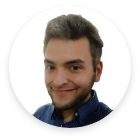
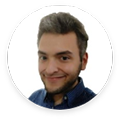
Inclusión de estructura básica de sitio con Flexbox para Web y Móvil.
• Actualizadas imágenes del sitio para la nueva estructura.
• Cambios en el HTML para la nueva estructura.

diff --git a/src/personal-website/personal-website.html b/src/personal-website/personal-website.html
@@ -14,66 +14,70 @@
         <span class="profession">Consultor técnico y programador</span>
     </header>
     <section class="menu">
-        text
+       
     </section>
-    <section class="about">
-        <h1>Bienvenido a mi sitio web</h1>
-        <div>
-            <img src="../../public/images/0.png" alt="professional-photo">
-            <div class="personal-profile">
-                <p class="title">Fernando Sánchez</p>
-                <p class="description">
-                    Mi nombre es Fernando, soy un profesional de tecnología con mas de
-                    6 años ayudando a crear e implementar productos de software como
-                    programador, consultor y asesor técnico.
-                </p>
-            </div>
-        </div>
-        <div>
-            <h2>Trabajo para</h2>
-            <div class="work-area business-work-area">
-                <img src="../../public/images/baseline_business_white_48dp.png" alt="business-icon">
-                <div class="work-description">
-                    <p class="title">Empresas</p>
+    <div class="page-content">
+        <section class="about">
+            <h1>Bienvenido a mi sitio web</h1>
+            <div class="personal-profile-container">
+                <img src="../../public/images/0.png" alt="professional-photo">
+                <div class="personal-profile">
+                    <span class="title">Fernando Sánchez</span>
                     <p class="description">
-                        lore impso dolorem ita mina oule ifsa lore impso dolorem
-                        ita mina oule ifsa
+                        Profesional de tecnología con mas de
+                        6 años ayudando a crear e implementar productos de software como
+                        programador, consultor y asesor de tecnología.
                     </p>
                 </div>
             </div>
-            <div class="work-area entrepreneur-work-area">
-                <img src="../../public/images/hombre-de-traje-y-corbata-white.png" alt="enterpreneur-icon">
-                <div class="work-description">
-                    <p class="title">Emprendedores</p>
-                    <p class="description">
-                        lore impso dolorem ita mina oule ifsa lore impso dolorem
-                        ita mina oule ifsa
-                    </p>
+            <div>
+                <h2>Creo e implemento software para:</h2>
+                <div class="work-area business-work-area">
+                    <img src="../../public/images/baseline_business_white_48dp.png" alt="business-icon">
+                    <div class="work-description">
+                        <p class="title">Empresas</p>
+                        <p class="description">
+                            Impulsar el negocio de forma sostenida en el tiempo,
+                            con software enfocado en generar beneficios mantenibles
+                        </p>
+                    </div>
+                </div>
+                <div class="work-area entrepreneur-work-area">
+                    <img src="../../public/images/hombre-de-traje-y-corbata-white.png" alt="enterpreneur-icon">
+                    <div class="work-description">
+                        <p class="title">Emprendedores</p>
+                        <p class="description">
+                            Hacer realidad nuevas ideas de negocio,
+                            utilizando como vehiculo tecnologías y software costos-efectivos
+                        </p>
+                    </div>
+                </div>
+                <div class="work-area people-work-area">
+                    <img src="../../public/images/person-image-white.png" alt="person-icon">
+                    <div class="work-description">
+                        <p class="title">Personas</p>
+                        <p class="description">
+                            Lograr una vida más satisfactoria y plena con asistencia 
+                            de software enfocado en las personas.
+                        </p>
+                    </div>
                 </div>
             </div>
-            <div class="work-area people-work-area">
-                <img src="../../public/images/person-image-white.png" alt="person-icon">
-                <div class="work-description">
-                    <p class="title">Personas</p>
-                    <p class="description">
-                        lore impso dolorem ita mina oule ifsa lore impso dolorem
-                        ita mina oule ifsa
-                    </p>
+        </section>
+        <section class="contact">
+            <div>
+                <h1>¡Trabajemos juntos!</h1>
+                <p>Contactame por las siguientes vias y exploremos que tan lejos podemos llegar juntos:</p>
+                <div>
+                    <span class="contact-method"><img src="../../public/images/white-circle-email.png" alt="email-icon"><p><span class="contact-method-title">Correo:</span><a href="mailto:fesanchez@gitubis.com">fesanchez@fitubis.com</a></p></span>
+                    <span class="contact-method"><img src="../../public/images/white-circle-linkedin.png" alt="linkedin-icon"><p><span class="contact-method-title">Linkedin:</span><a href="https://www.linkedin.com/in/fesr" target="_blank">www.linkedin.com/in/fesr</a></p></span>
                 </div>
             </div>
-        </div>
-    </section>
-    <section class="contact">
-        <h1>¡Trabajemos juntos!</h1>
-        <p>Contactame por las siguientes vias y exploremos que tan lejos podemos llegar juntos:</p>
-        <div>
-            <span class="contact-method"><img src="../../public/images/white-circle.png" alt="email-icon"><p><span class="contact-method-title">Correo:</span>fesanchez@fitubis.com</p></span>
-            <span class="contact-method"><img src="../../public/images/white-circle.png" alt="linkedin-icon"><p><span class="contact-method-title">Linkedin:</span>www.linkedin.com/in/fesr</p></span>
-        </div>
-    </section>
-    <section class="copyright">
-        <p>Iconos diseñados por Freepik y Google</p>
-        <p>©2020 Fernando Sánchez, todos los derechos reservados</p>
-    </section>
+            <div class="copyright">
+                <p>Iconos diseñados por Freepik y Google</p>
+                <p>©2020 Fernando Sánchez, todos los derechos reservados</p>
+            </div>
+        </section>
+    </div>
 </body>
 </html>

diff --git a/src/personal-website/personal-website.css b/src/personal-website/personal-website.css
@@ -1,32 +1,103 @@
+html{
+    display: flex;
+}
 body{
     color: #333333;
+    font-family: 'Segoe UI', Tahoma, Geneva, Verdana, sans-serif;
+}
+
+p {
+    margin: 5px 0px 5px 0px;
+}
+
+a:link{
+    color: #94c0e9;
+}
+
+a:hover{
+    color: #c8def2;   
+}
+a:visited{
+    color: #397ab6;
 }
 
 header{
+    display: flex;
+    flex-direction: row;
+    justify-content: flex-start;
+    align-items: center;
     background-color: #272424;
     color: #FFFFFF;
+    height: 40px;
+    padding:5px;
 }
 
+header> img{
+    height:70px;
+}
 header>.name{
     font-weight: 700;
+    margin-right:10px;
 }
 
 .menu{
     background-color: #485F75;
+    height:30px;
 }
 
+.page-content{
+    display: flex;
+    flex-direction: row;
+    justify-content: space-between;
+    align-items: stretch;
+}
+
+.about, .contact{
+    width:50%;
+    padding: 40px 80px 20px 80px;
+}
+
+.about{
+    background-color: #F5F5F5;
+}
+
+.personal-profile-container{
+    display: flex;
+    flex-direction: row;
+    justify-content: center;
+}
+
+
+.personal-profile-container > img{
+    height:100px;
+    margin-right: 5px;
+}
 .personal-profile>.title{
     font-weight: 700;
 }
 
 .work-area{
+    display: flex;
+    flex-direction: row;
+    justify-content: flex-start;
+    align-items: center;
     color:#FFFFFF;
+    padding: 10px 40px 10px 20px;
+    margin-bottom:30px;
+}
+
+.work-area > img{
+    height:60px;
+    margin-right: 40px;
 }
 
 .work-description> .title{
     font-weight: 700;
 }
 
+.work-description> .description{
+    font-size:14px;
+}
 
 .business-work-area{
     background-image: url('../../public/images/business-background.png');
@@ -39,18 +110,73 @@ header>.name{
 }
 
 .people-work-area{
-    background-image: url('../../public/images/entrepreneur-background.png');
+    background-image: url('../../public/images/people-background.png');
     background-size:cover;
 }
 
 .contact{
     color: #FFFFFF;
+    display: flex;
+    flex-direction: column;
+    justify-content: space-between;
     background-image: url('../../public/images/about-background.png');
     background-size:cover;
     background-position: center;
 }
 
+.contact-method{
+    display: flex;
+    flex-direction: row;
+    justify-content: flex-start;
+    align-items: center;
+}
+
+.contact-method > img{
+    height:100px;
+    margin-right:10px;
+}
 .contact-method-title{
     font-weight: 700;
+    margin-right:5px;
 }
+.copyright{
+    color:#FFFFFF;
+    text-align: right;
+}
+
+/*Para moviles*/
+@media only screen and (max-width: 768px) {
+
+    h1 {
+        font-size: 20px;
+    }
+
+    h2 {
+        font-size: 16px;
+    }
+    
+    p{
+        font-size:12px;
+    }
+
+    .page-content{
+        flex-direction: column;
+    }
+
+    .work-area > img{
+        height:50px;
+        margin-right: 40px;
+    }
+    
+    .about,.contact{
+        width:auto;
+        padding: 20px 20px 20px 20px;
+    }
+
+    .contact-method > img{
+        height:50px;
+        margin-right:10px;
+    }
+    
+  }
 
